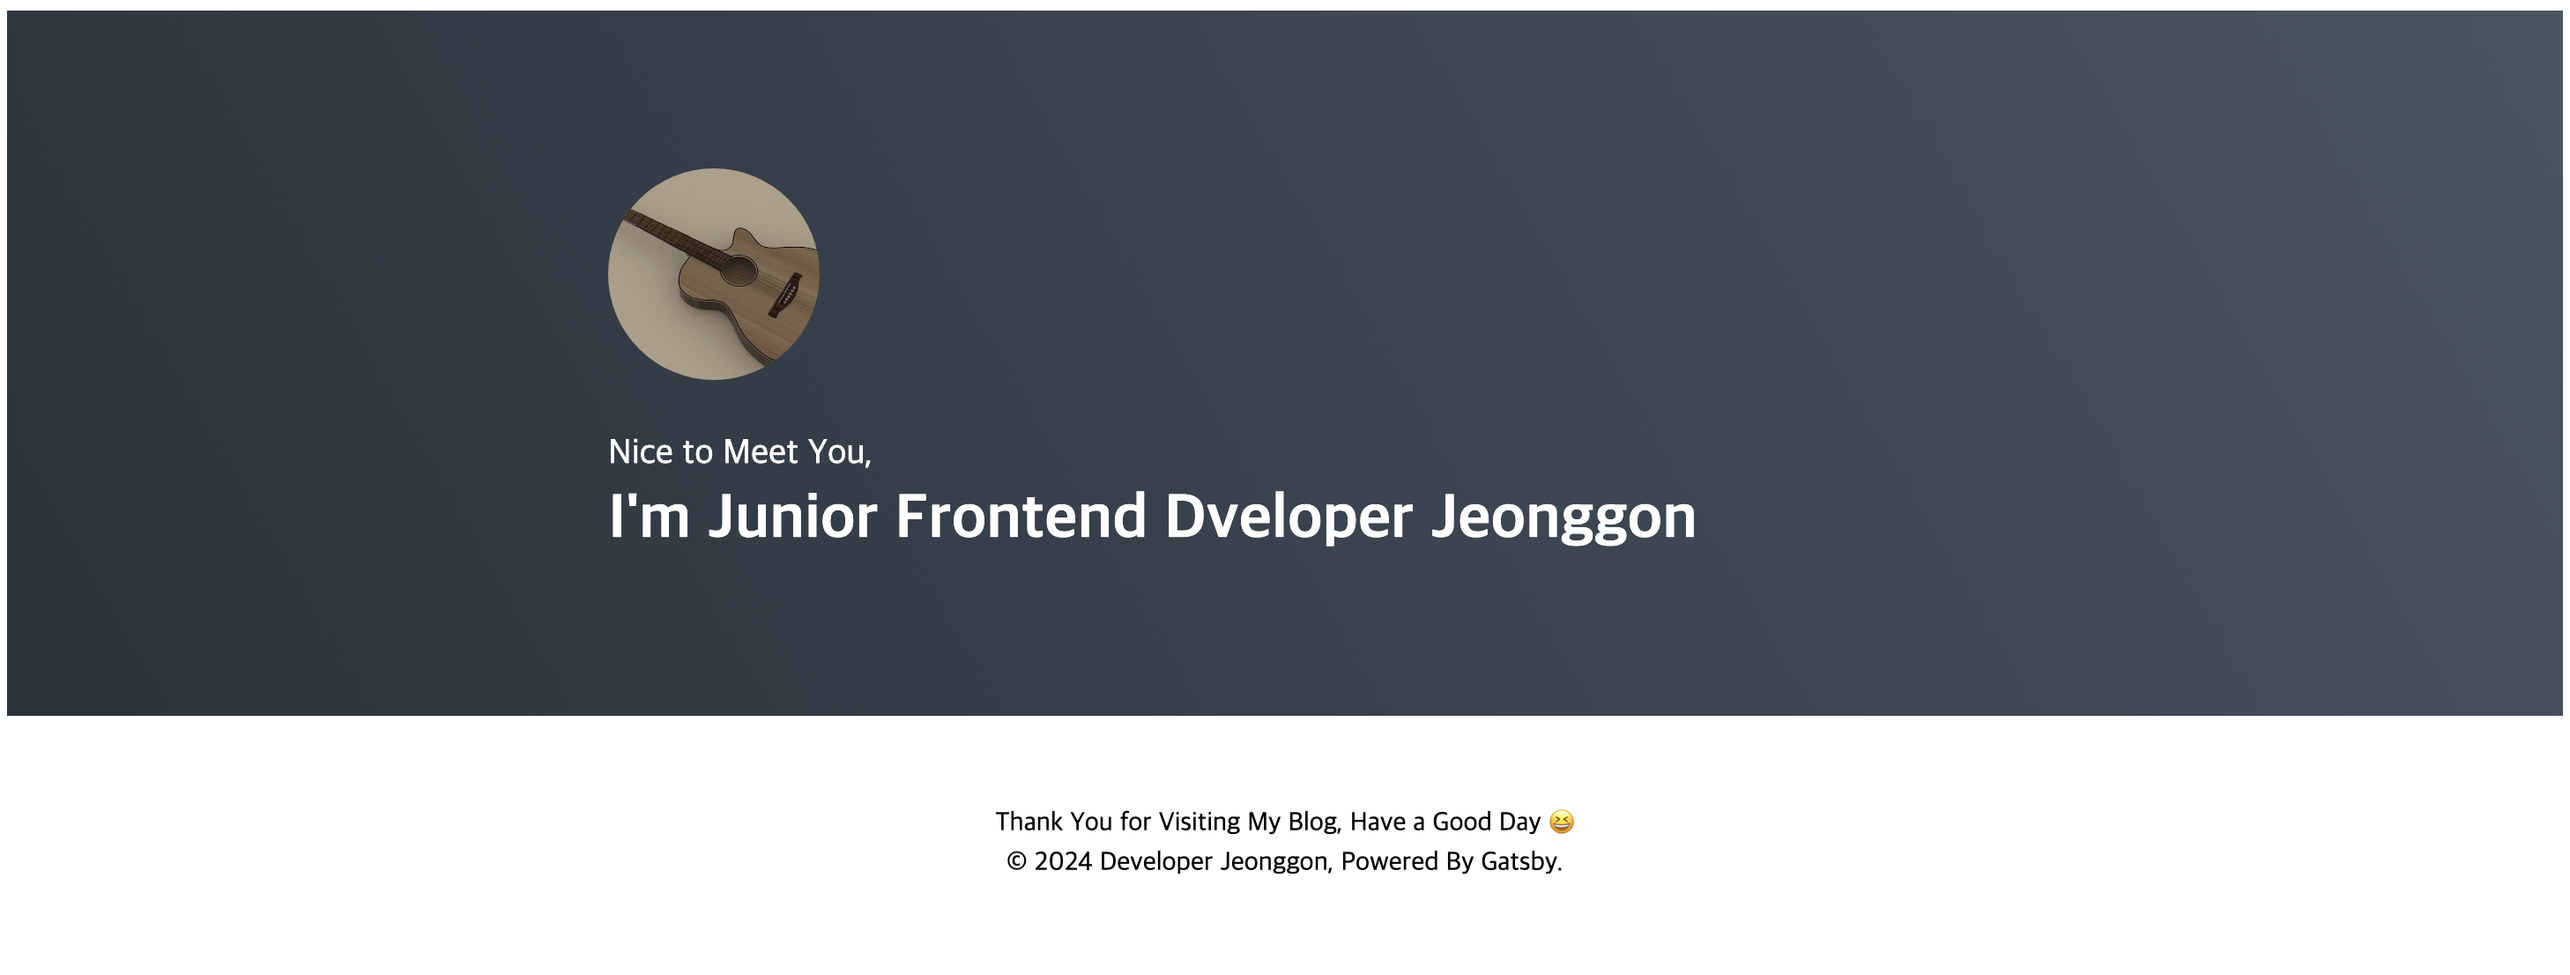
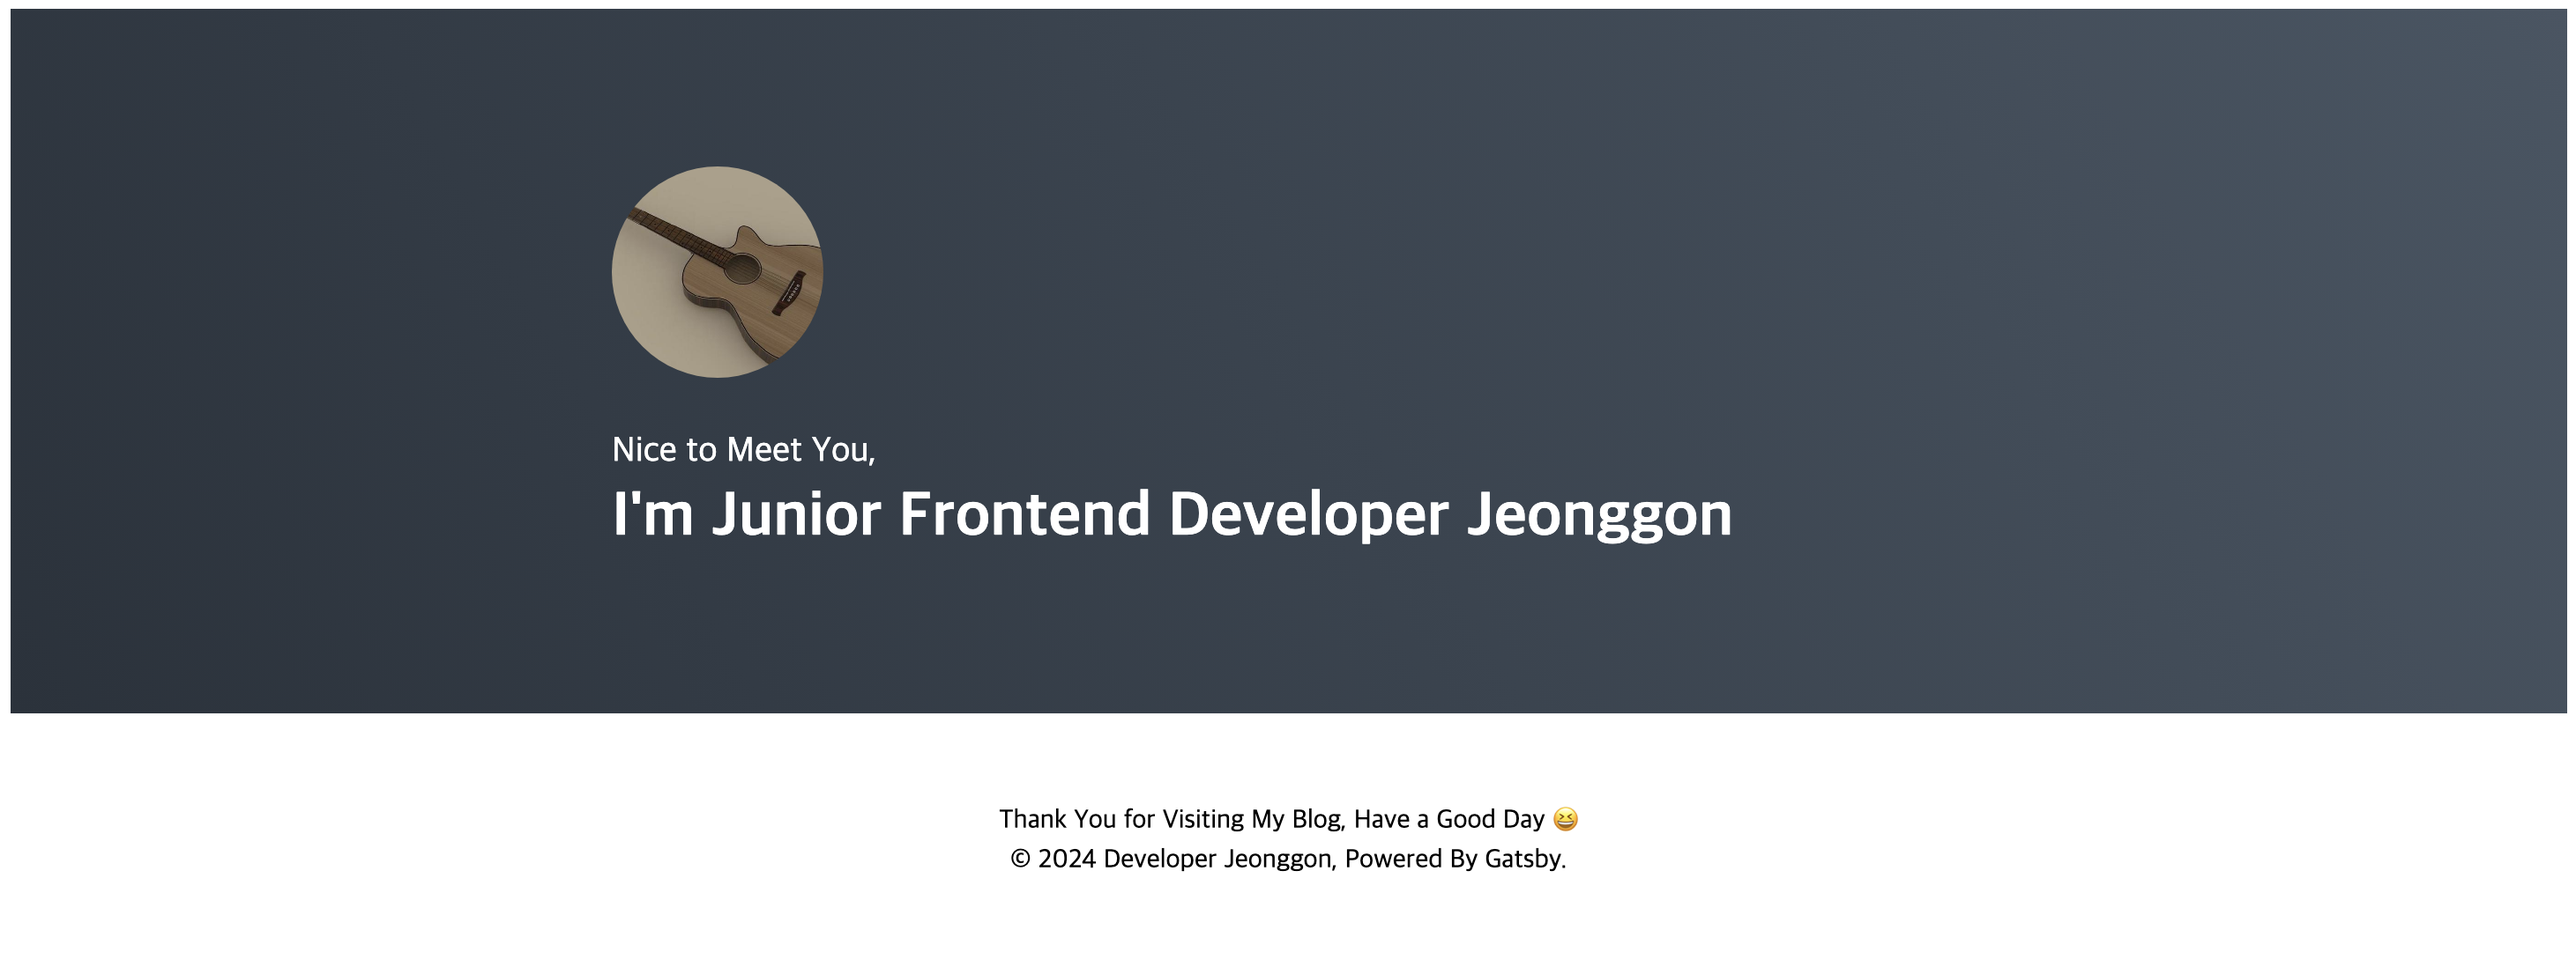
feat: CategroyList

diff --git a/Gatsby-theme-jeonggon/src/components/Main/CategoryList.tsx b/Gatsby-theme-jeonggon/src/components/Main/CategoryList.tsx
@@ -1,0 +1,61 @@
+import React, { FunctionComponent, ReactNode } from 'react'
+import styled from '@emotion/styled'
+import { Link } from 'gatsby'
+
+type CategoryItemProps = {
+  active: boolean;
+}
+
+type GatsbyLinkProps = {
+  children: ReactNode;
+  className?: string;
+  to: string;
+} & CategoryItemProps
+
+export type CategoryListProps = {
+  selectedCategory: string
+  categoryList: {
+    // 프로퍼티 이름은 문자열, 프로퍼티 값은 숫자로 타입
+    [key: string]: number
+  }
+}
+
+const CategoryListWrapper = styled.div`
+    display: flex;
+    flex-wrap: wrap;
+    width: 768px;
+    margin: 100px auto 0;
+`;
+
+// eslint-disable-next-line @typescript-eslint/no-unused-vars
+const CategoryItem = styled(({active, ...props}: GatsbyLinkProps) => (
+  <Link {...props} />
+))<CategoryItemProps>`
+    margin-right: 20px;
+    padding: 5px 0;
+    font-size: 18px;
+    font-weight: ${({active}) => (active? '800': '400')};
+    cursor: pointer;
+    
+    &:last-of-type {
+        margin-right: 0;
+    }
+`;
+
+const CategoryList: FunctionComponent<CategoryListProps> = function({ selectedCategory, categoryList,}) {
+  return (
+    <CategoryListWrapper>
+      {Object.entries(categoryList).map(([name, count]) => (
+        <CategoryItem
+          to={`/?category=${name}`}
+          active={name === selectedCategory}
+          key={name}
+        >
+          #{name}({count})
+        </CategoryItem>
+      ))}
+    </CategoryListWrapper>
+  )
+};
+
+export default CategoryList;

diff --git a/Gatsby-theme-jeonggon/src/pages/index.tsx b/Gatsby-theme-jeonggon/src/pages/index.tsx
@@ -2,7 +2,14 @@ import React, { FunctionComponent } from 'react'
 import styled from '@emotion/styled'
 import GlobalStyle from 'components/Common/GlobalStyle'
 import Introduction from 'components/Main/Introduction'
+import CategoryList from 'components/Main/CategoryList'
 import Footer from 'components/Common/Footer'
+
+const CATEGORY_LIST = {
+  All: 5,
+  Web: 3,
+  Mobile: 2,
+}
 
 const Container = styled.div`
     display: flex;
@@ -15,6 +22,7 @@ const IndexPage: FunctionComponent = function () {
     <Container>
       <GlobalStyle />
       <Introduction />
+      <CategoryList selectedCategory="Web" categoryList={CATEGORY_LIST} />
       <Footer />
     </Container>
   )

diff --git a/Gatsby-theme-jeonggon/src/components/Main/Introduction.tsx b/Gatsby-theme-jeonggon/src/components/Main/Introduction.tsx
@@ -37,7 +37,7 @@ const Introduction: FunctionComponent = function () {
 
         <div>
           <SubTitle>Nice to Meet You,</SubTitle>
-          <Title>I'm Junior Frontend Dveloper Jeonggon</Title>
+          <Title>I'm Junior Frontend Developer Jeonggon</Title>
         </div>
       </Wrapper>
     </Background>

diff --git a/Gatsby-theme-jeonggon/src/components/Common/GlobalStyle.tsx b/Gatsby-theme-jeonggon/src/components/Common/GlobalStyle.tsx
@@ -26,7 +26,7 @@ const defaultStyle = css`
 `;
 
 const GlobalStyle: FunctionComponent = function() {
-  return <Global style={defaultStyle} />
+  return <Global styles={defaultStyle} />
 };
 
 export default GlobalStyle;
